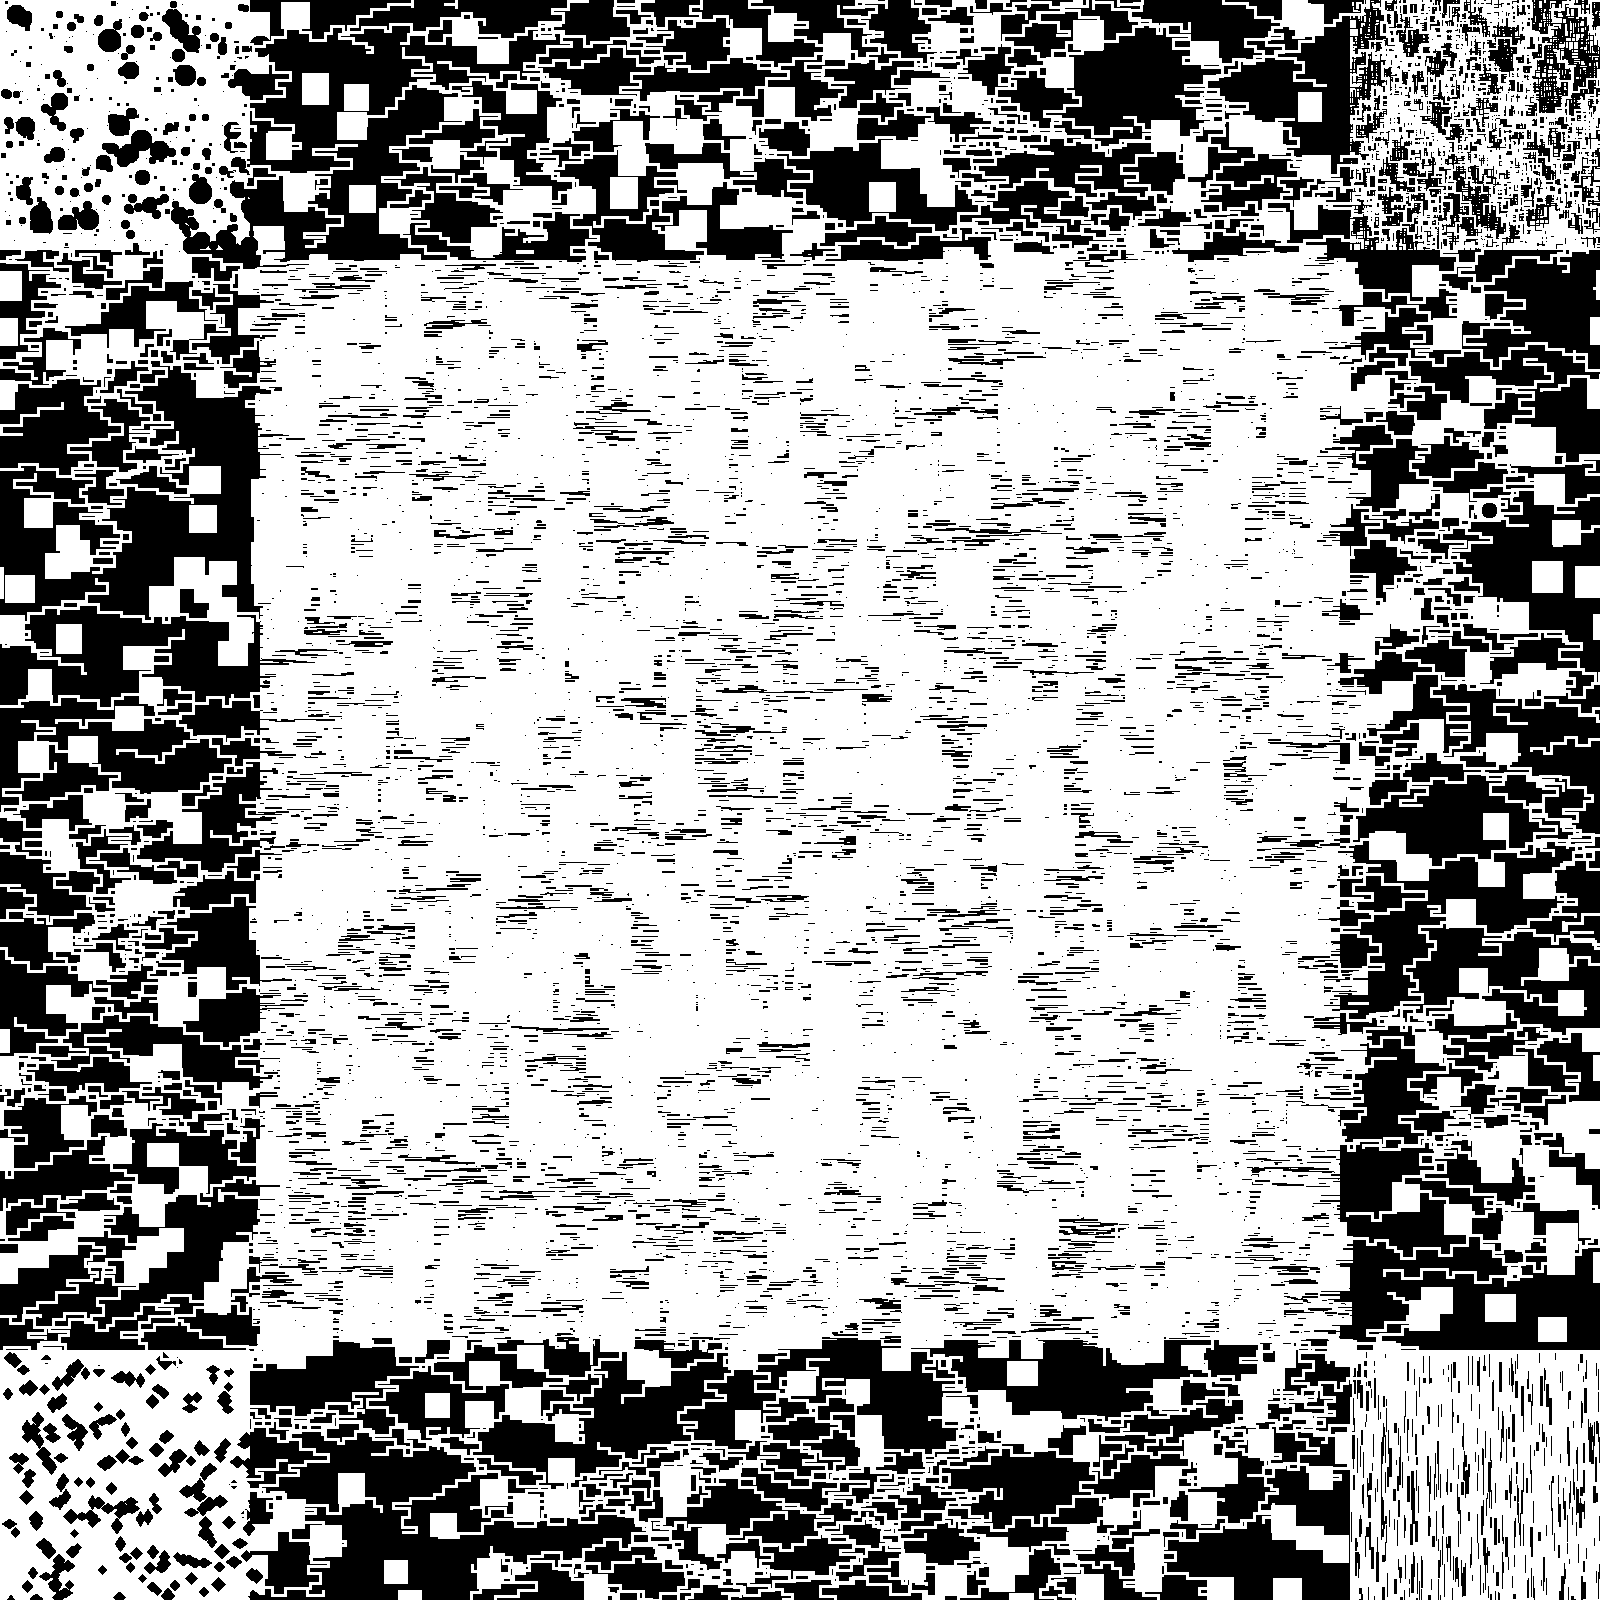
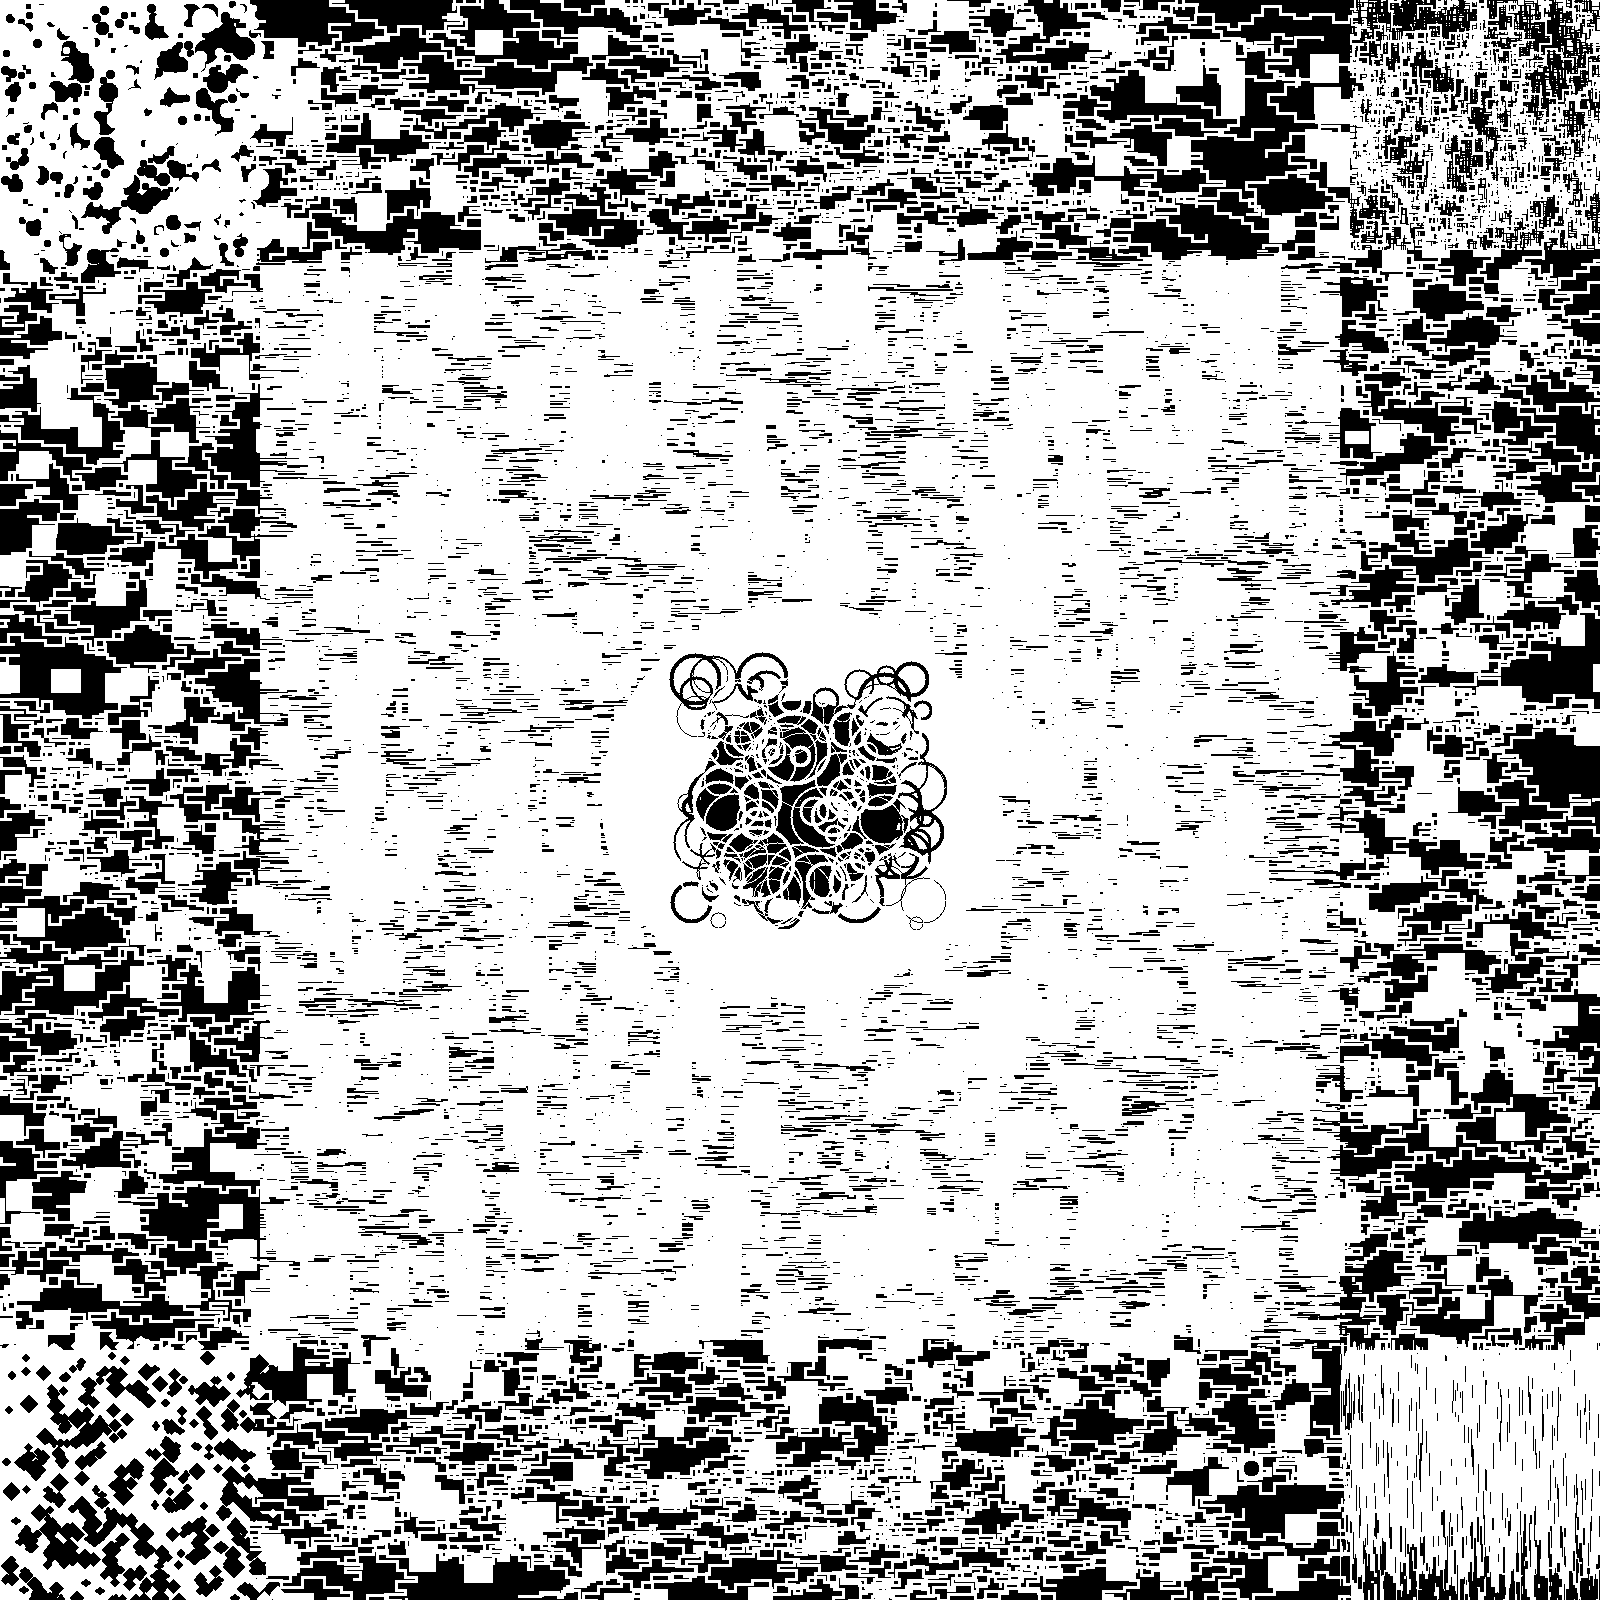
map

diff --git a/map.js b/map.js
@@ -159,19 +159,28 @@ exports.Map.prototype = {
       }
     }
   },
-  ring: function ring(posXMin, posXMax, posYMin, posYMax, minRadius, maxRadius, colourMin, colourMax) {
-    var PosX = Math.floor(Math.random()*(posXMax-posXMin+1)+posXMin);
-    var PosY = Math.floor(Math.random()*(posYMax-posYMin+1)+posYMin);
-    for (var z = -maxRadius; z < maxRadius; z++){
-      for (var i = -maxRadius; i < maxRadius; i++){
+  ring: function ring(posXMin, posXMax, posYMin, posYMax, radius, thick, colourMin, colourMax) {
+    var PosX = this.Random(posXMin,posXMax);
+    var PosY = this.Random(posYMin,posYMax);
+    for (var z = -radius; z < radius; z++){
+      for (var i = -radius; i < radius; i++){
         var rad = Math.sqrt(z*z+i*i);
-        if(rad > minRadius && rad <= maxRadius){
+        if(rad > radius-thick && rad <= radius){
           var ringColour = Math.floor(Math.random()*(colourMax-colourMin+1)+colourMin);
-          if (this.map[PosX+PosY*ret+z+i*ret] != 0 && PosX+z <= 639 && PosY+z >= 0 && PosY+i <= 639 && PosY+i >= 0 ) {
+          if (PosX+z <= ret-1 && PosX+z >= 0 && PosY+i <= ret-1 && PosY+i >= 0 ) {
             this.map[PosX+PosY*ret+z+i*ret] = ringColour;
           }
         }
       }
+    }
+  },
+  randomRings: function randomRings(numb, posXMin, posXMax, posYMin, posYMax, radiusMin, radiusMax, thickMin, thickMax, colourMin, colourMax) {
+    var TSize = (posXMax - posXMin)*(posYMax - posYMin);
+    var num = Math.floor(TSize/numb);
+    for (var j = 0; j < num; j++) {
+      var radius = this.Random(radiusMin,radiusMax);
+      var thick = this.Random(thickMin,thickMax);
+      this.ring(posXMin, posXMax, posYMin, posYMax, radius, thick, colourMin, colourMax);
     }
   },
   randomSnakes: function randomSnakes(numb, bend, segMin, segMax, posXMin, posXMax, posYMin, posYMax, lengthXMin, lengthXMax, lengthYMin, lengthYMax, thickX, thickY, colourMin, colourMax) {
@@ -395,51 +404,92 @@ exports.Map.prototype = {
     		this.map[y] = 0;
   	}
   //Build Terrain
-  /*
-  //Ground
-    this.randomTerrain(500, 0, ret, 0, ret, 20, 30, 20, 30, 17, 45);
-    this.randomTerrain(250, 0, ret, 0, ret, 2, 3, 7, 20, 0, 0);
-    this.randomTerrain(250, 0, ret, 0, ret, 14, 32, 2, 3, 0, 0);
-    this.randomTerrain(750, 0, ret, 0, ret, 24, 38, 4, 6, 0, 0);
-    this.randomTerrain(50, 230, ret-230, 230, ret-230, 1, 1, 1, 1, 0, 0);
-    this.makeTerrain(260, 260, ret-520, ret-520, 0, 0); 
-  */
   // Dungeon
     this.makeTerrain(0,0,ret,ret,17,45);
     this.randomTerrain(3750, 0, ret, 0, ret, 24, 32, 24, 32, 0, 0);
     this.makeTerrain(260, 260, ret-520, ret-520, 0, 0); 
-    //this.snake(200, 0, 400, 800, 400, 800, 600, 600, 4, 14, 4, 14, 3, 3, 0, 0);
-    //this.worm(200, 1000, 800, 4, 14, 4, 14, 3, 3, 0, 0);
-    //randomSnakes(numb, bend, segMin, segMax, posXMin, posXMax, posYMin, posYMax, lengthXMin, lengthXMax, lengthYMin, lengthYMax, thickX, thickY, colourMin, colourMax);
+    //Underground Passages
+    this.randomSnakes(3500, 0, 25, 50, 250, ret-250, 0, 260, 6, 24, 4, 10, 3, 3, 0, 0);
+    this.randomSnakes(3500, 0, 25, 50, 0, 260, 250, ret-250, 6, 24, 4, 10, 3, 3, 0, 0);
+    this.randomSnakes(3500, 0, 25, 50, 250, ret-250, ret-260, ret, 6, 24, 4, 10, 3, 3, 0, 0);
+    this.randomSnakes(3500, 0, 25, 50, ret-260, ret, 250, ret-250, 6, 24, 4, 10, 3, 3, 0, 0);
   // Center Part of the Map
     this.randomTerrain(100,250, ret-250 ,250 , ret-250, 3, 30, 1, 2, 17, 45);
     this.randomTerrain(1000,250, ret-250 ,250 , ret-250, 3, 30, 3, 30, 0, 0);
     this.randomTerrain(700,250, ret-250 ,250 , ret-250, 1, 10, 1, 1, 17, 45);
     this.randomTerrain(2500,250, ret-280 ,250 , ret-280, 30, 50, 30, 50, 0, 0); //Large Voids
     this.randomTerrain(1000,250, ret-250 ,250 , ret-250, 1, 2, 1, 1, 17, 45);
-  //Fire Kingdom
+  // The Very Center
+    this.ring(800, 800, 800, 800, 199, 199, 0, 0);
+    //this.ring(800, 800, 800, 800, 199, 1, 17, 45);
+    this.ring(800, 800, 800, 800, 100, 100, 40, 45);
+    this.randomRings(600, 675, 925, 675, 925, 7, 28, 1, 4, 40, 45);
+    this.randomRings(500, 700, 900, 700, 900, 6, 38, 1, 4, 0, 0);
+  // Fire Kingdom
+    //Make Space
     this.makeTerrain(0, 0, 250, 250, 0, 0);
-    this.circle(2300,0, 250, 0, 250, 7, 12, 1, 4);    
-    this.circle(1700,0, 250, 0, 250, 4, 9, 1, 4);
-    this.circle(400,0, 250, 0, 250, 3, 5, 1, 4);
-    this.circle(300,0, 250, 0, 250, 1, 2, 1, 4);
+    //Borders
+    this.circle(300, 0, 250, 230, 250, 7, 12, 0, 0);    
+    this.circle(200, 0, 250, 230, 250, 4, 9, 0, 0);
+    this.circle(100, 0, 250, 230, 250, 3, 5, 0, 0);
+    this.circle(50, 230, 250, 0, 250, 1, 2, 0, 0);
+
+    this.circle(300, 230, 250, 0, 250, 7, 12, 0, 0);    
+    this.circle(200, 230, 250, 0, 250, 4, 9, 0, 0);
+    this.circle(100, 230, 250, 0, 250, 3, 5, 0, 0);
+    this.circle(50, 230, 250, 0, 250, 1, 2, 0, 0);
+    //Fire Terrain
+    this.circle(1000, 0, 250, 0, 250, 7, 12, 1, 4);    
+    this.circle(7500, 0, 250, 0, 250, 4, 9, 1, 4);
+    this.circle(200, 0, 250, 0, 250, 3, 5, 1, 4);
+
+    this.circle(2000, 0, 250, 0, 250, 9, 13, 0, 0);    
+    this.circle(1000, 0, 250, 0, 250, 7, 10, 0, 0);    
+    this.circle(750, 0, 250, 0, 250, 4, 7, 0, 0);
+    //this.circle(300, 0, 250, 0, 250, 1, 2, 1, 4);
     /*
     this.colouring(0.3, 0, 250, 0, 250, 1, 4);
     this.colouring(0.6, 0, 175, 0, 175, 1, 4);
     this.colouring(1, 0, 100, 0, 100, 1, 4);
     */
   //Ice Kingdom
+    //Make Space
     this.makeTerrain(ret-250, ret-250, 250, 250, 0, 0);
-    this.randomTerrain(400, ret-250, ret , ret-250 , ret, 2, 3, 5, 30, 59, 63);
+    //Borders
+    this.randomTerrain(100, ret-260, ret-230 , ret-260 , ret, 2, 3, 5, 30, 0, 0);
+    this.randomTerrain(50, ret-260, ret-230 , ret-260 , ret, 1, 1, 5, 30, 0, 0);
+
+    this.randomTerrain(100, ret-260, ret , ret-260 , ret-230, 2, 3, 5, 30, 0, 0);
+    this.randomTerrain(50, ret-260, ret , ret-260 , ret-230, 1, 1, 5, 30, 0, 0);
+    //Ice Terrain
+    this.randomTerrain(50, ret-260, ret , ret-30 , ret, 3, 4, 5, 30, 59, 63);
+    this.randomTerrain(150, ret-260, ret , ret-60 , ret-30, 2, 3, 5, 30, 59, 63);
+    this.randomTerrain(250, ret-260, ret , ret-90 , ret-60, 2, 2, 5, 30, 59, 63);
     this.randomTerrain(200, ret-250, ret , ret-250 , ret, 1, 1, 5, 30, 59, 63);
+    this.randomTerrain(50, ret-260, ret , ret-260 , ret-230, 1, 3, 5, 30, 0, 0);
     /*
     this.colouring(0.3, ret-250, ret-1, ret-250, ret-1, 59, 63);
     this.colouring(0.6, ret-175, ret-1, ret-175, ret-1, 59, 63);
     this.colouring(1, ret-100, ret-1, ret-100, ret-1, 59, 63);
     */
   // Wind Palace
+    //Make Space
     this.makeTerrain(0, ret-250, 250, 250, 0, 0);
-    this.diamond(300, 0, 250, ret-250, ret, 10, 17, 10, 17, 55, 59);
+    //Borders    
+    this.diamond(1800, 230, 270, ret-270, ret, 17, 23, 17, 23, 0, 0);
+    this.diamond(1200, 230, 270, ret-270, ret, 14, 17, 14, 17, 0, 0);
+    this.diamond(800, 230, 270, ret-270, ret, 9, 11, 9, 11, 0, 0);
+
+    this.diamond(1800, 0, 270, ret-270, ret-230, 17, 23, 17, 23, 0, 0);
+    this.diamond(1200, 0, 270, ret-270, ret-230, 14, 17, 14, 17, 0, 0);
+    this.diamond(800, 0, 270, ret-270, ret-230, 9, 11, 9, 11, 0, 0);
+    //Wind Palace Terrain
+    this.diamond(1800, 0, 250, ret-250, ret, 17, 23, 17, 23, 17, 20);
+    this.diamond(1200, 0, 250, ret-250, ret, 14, 17, 14, 17, 17, 20);
+    this.diamond(800, 0, 250, ret-250, ret, 9, 11, 9, 11, 17, 20);
+    this.diamond(1800, 0, 250, ret-250, ret, 17, 23, 17, 23, 17, 20);
+    this.diamond(1200, 0, 250, ret-250, ret, 14, 17, 14, 17, 17, 20);
+    this.diamond(800, 0, 250, ret-250, ret, 9, 11, 9, 11, 17, 20);
     /*
     this.colouring(0.3, ret-250, ret-1, 0, 250, 31, 34);
     this.colouring(0.6, ret-175, ret-1, 0, 175, 31, 34);
@@ -462,10 +512,10 @@ exports.Map.prototype = {
     this.makeTerrain(0, ret-testRoomSize, testRoomSize, testRoomSize, 0, 0);
     */
   // Underground Passages
-    this.randomSnakes(3500, 0, 25, 50, 230, ret-230, 0, 260, 6, 24, 4, 10, 3, 3, 0, 0);
-    this.randomSnakes(3500, 0, 25, 50, 0, 260, 230, ret-230, 6, 24, 4, 10, 3, 3, 0, 0);
-    this.randomSnakes(3500, 0, 25, 50, 230, ret-230, ret-260, ret, 6, 24, 4, 10, 3, 3, 0, 0);
-    this.randomSnakes(3500, 0, 25, 50, ret-260, ret, 230, ret-230, 6, 24, 4, 10, 3, 3, 0, 0);
+    this.randomSnakes(3500, 0, 25, 50, 250, ret-250, 0, 260, 6, 24, 4, 10, 3, 3, 0, 0);
+    this.randomSnakes(3500, 0, 25, 50, 0, 260, 250, ret-250, 6, 24, 4, 10, 3, 3, 0, 0);
+    this.randomSnakes(3500, 0, 25, 50, 250, ret-250, ret-260, ret, 6, 24, 4, 10, 3, 3, 0, 0);
+    this.randomSnakes(3500, 0, 25, 50, ret-260, ret, 250, ret-250, 6, 24, 4, 10, 3, 3, 0, 0);
   //Portal Spawn
   	this.portal(0,ret-24 ,0,ret-24,24,24,8);
   /*Ring Colour Coding
